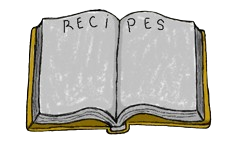
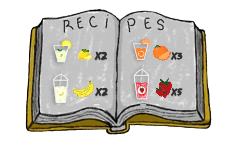
se crearon pedidos

diff --git a/scenes/Game.js b/scenes/Game.js
@@ -12,6 +12,14 @@ export default class Game extends Phaser.Scene {
             naranja: { count: 0, points: 0, limit: this.limiteFrutas },
             frutilla: { count: 0, points: 0, limit: this.limiteFrutas },
         };
+
+        this.pedidos = [
+            { name: "Batido de Frutilla", type: "frutilla", required: 5, image: "batidoFrutilla" },
+            { name: "Batido de Banana", type: "banana", required: 3, image: "batidoBanana" },
+            { name: "Jugo de Naranja", type: "naranja", required: 4, image: "jugoNaranja" },
+            { name: "Limonada", type: "limon", required: 2, image: "limonada" }
+        ];
+        this.pedidoActual = null;
     }
 
     preload() {
@@ -26,8 +34,13 @@ export default class Game extends Phaser.Scene {
 
         this.load.image("F", "./public/assets/F.png");
         this.load.image("B", "./public/assets/B.png");
-        this.load.image("L", "./public/assets/L.png");  
+        this.load.image("L", "./public/assets/L.png");
         this.load.image("N", "./public/assets/N.png");
+
+        this.load.image("batidoFrutilla", "public/assets/frutOR.png");
+        this.load.image("batidoBanana", "public/assets/banOR.png");
+        this.load.image("jugoNaranja", "public/assets/narOR.png");
+        this.load.image("limonada", "public/assets/limOR.png");
 
         this.load.image("ORButton", "public/assets/ORButton.png");
         this.load.image("backButton", "public/assets/backButton.png");
@@ -36,7 +49,6 @@ export default class Game extends Phaser.Scene {
 
         this.load.image("popupOR", "public/assets/popupOR.png");
         this.load.image("popupRE", "public/assets/popupRE.png");
-
     }
 
     create() {
@@ -97,7 +109,7 @@ export default class Game extends Phaser.Scene {
         // grupo de pop-ups
         this.popups = this.add.group();
 
-        //boton de menu
+        // botón de menú
         this.menuButton = this.add.image(550, 40, "menuButton").setInteractive().setScale(0.12).setVisible(true);
         this.menuButton.on('pointerover', () => {
             this.menuButton.setScale(0.10);
@@ -105,11 +117,10 @@ export default class Game extends Phaser.Scene {
 
         this.menuButton.on('pointerout', () => {
             this.menuButton.setScale(0.12);
-        })
+        });
 
-        this.menuButton.on ('pointerdown', () => {
+        this.menuButton.on('pointerdown', () => {
             this.scene.start('Inicio');
-
         });
 
         // botón de pedidos
@@ -121,19 +132,19 @@ export default class Game extends Phaser.Scene {
 
         this.ORButton.on('pointerout', () => {
             this.ORButton.setScale(1);
-        })
+        });
 
-        // botón de recetas 
+        // botón de recetas
         this.REButton = this.add.image(60, 650, "REButton").setInteractive().setScale(1).setVisible(true);
         this.REButton.on('pointerup', () => this.showPopup('RE'), this);
-        this.REButton.setInteractive({cursor: 'pointer'});
+        this.REButton.setInteractive({ cursor: 'pointer' });
         this.REButton.on('pointerover', () => {
             this.REButton.setScale(0.95);
         });
 
         this.REButton.on('pointerout', () => {
             this.REButton.setScale(1);
-        })
+        });
 
         // pop-ups pero ocultos inicialmente
         this.popupOR = this.add.image(300, 300, "popupOR").setVisible(false).setDepth(2).setScale(1.9);
@@ -146,7 +157,8 @@ export default class Game extends Phaser.Scene {
 
         this.backButton.on('pointerout', () => {
             this.backButton.setScale(0.8);
-        })
+        });
+
         this.backREButton = this.add.image(300, 400, "backButton").setInteractive().setScale(0.8).setVisible(false).setDepth(2);
         this.backREButton.on('pointerdown', this.hidePopup, this);
         this.backREButton.on('pointerover', () => {
@@ -155,7 +167,28 @@ export default class Game extends Phaser.Scene {
 
         this.backREButton.on('pointerout', () => {
             this.backREButton.setScale(0.8);
-        })
+        });
+
+        this.pedidoImagenOR = this.add.image(300, 300, "").setVisible(false).setDepth(3).setScale(0.6);
+
+        this.time.addEvent({
+            delay: 10500,
+            callback: this.generarPedido,
+            callbackScope: this,
+            loop: true,
+        });
+    }
+
+    generarPedido() {
+        const pedido = Phaser.Math.RND.pick(this.pedidos);
+        this.pedidoActual = pedido;
+        this.mostrarPedido();
+    }
+
+    mostrarPedido() {
+        if (this.pedidoImagenOR) {
+            this.pedidoImagenOR.setTexture(this.pedidoActual.image).setVisible(true);
+        }
     }
 
     update() {
@@ -209,15 +242,35 @@ export default class Game extends Phaser.Scene {
             shape.count += 1;
             recolectable.destroy();
             shape.text.setText(shape.count);
+
+            if (this.pedidoActual && tipo === this.pedidoActual.type) {
+                if (shape.count >= this.pedidoActual.required) {
+                    this.pedidoCompleto();
+                }
+            }
+
         } else {
-            recolectable.destroy(); //desaparece fruta si alcanza el límite
+            recolectable.destroy(); // desaparece fruta si alcanza el límite
         }
 
         // contador de frutas
         if (shape.count > 0) {
             shape.image.setVisible(true);
         }
+    }
 
+    pedidoCompleto() {
+        this.add.text(155, 200, '¡COMPLETED!', { fontSize: '30px', fill: '#ff8000' });
+        this.time.delayedCall(2000, () => {
+            if (this.pedidoImagen) {
+                this.pedidoImagen.destroy();
+            }
+            if (this.pedidoTexto) {
+                this.pedidoTexto.destroy();
+            }
+        });
+
+        this.pedidoActual = null;
     }
 
     onRecolectableHitPlatform(recolectable, platform) {
@@ -228,6 +281,11 @@ export default class Game extends Phaser.Scene {
         if (type === 'OR') {
             this.popupOR.setVisible(true);
             this.backButton.setVisible(true);
+            if (this.pedidoActual) {
+                this.pedidoImagenOR.setTexture(this.pedidoActual.image).setVisible(true);
+                this.pedidoTextoOR.setText(`${this.pedidoActual.name}: ${this.pedidoActual.required}`).setVisible(true);
+            }
+
         } else if (type === 'RE') {
             this.popupRE.setVisible(true);
             this.backREButton.setVisible(true);
@@ -239,8 +297,11 @@ export default class Game extends Phaser.Scene {
         this.popupRE.setVisible(false);
         this.backButton.setVisible(false);
         this.backREButton.setVisible(false);
+        this.pedidoImagenOR.setVisible(false);
+        this.pedidoTextoOR.setVisible(false);
     }
 }
+
 
 
 

diff --git a/scenes/Inicio.js b/scenes/Inicio.js
@@ -21,7 +21,7 @@ export default class Inicio extends Phaser.Scene {
         this.recolectables = this.physics.add.group();
 
         this.time.addEvent({
-            delay: 900,
+            delay: 800,
             callback: this.onSecond,
             callbackScope: this,
             loop: true,
@@ -58,7 +58,7 @@ export default class Inicio extends Phaser.Scene {
             0,
             tipo
         );
-        recolectable.setVelocity(0, 230);
+        recolectable.setVelocity(0, 250);
         recolectable.setScale(1);
     }
 }
